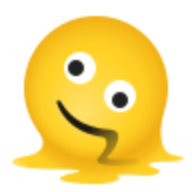
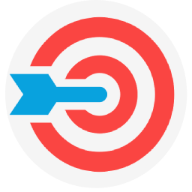
new branding

diff --git a/app/page.tsx b/app/page.tsx
@@ -20,14 +20,18 @@ export default function Home() {
   return (
     <main className="flex flex-col">
       <div className="flex flex-col items-center pt-8 sm:p-18">
-        <h1 className="text-6xl mb-4">Buzzkill.tips</h1>
-        <h3 className="text-lg mb-4 text-gray-600 text-center px-4">
+        <Image
+          src={"/logo.webp"}
+          className="mb-10"
+          width={450}
+          height={337}
+          alt="buzzkill.tips - just tell me"
+        />
+        <h3 className="text-lg mb-12 text-gray-600 text-center px-4">
           Tools and answers to your favorite New York Times games, updated
-          daily.
+          daily. <br />
+          <br /> Made out of playful spite.
         </h3>
-        <h4 className="text-md mb-12 text-gray-400 italic">
-          Just tell me <span className="not-italic ml-1">{""}🫠</span>
-        </h4>
         <div className="grid sm:grid-cols-2 lg:grid-cols-4 gap-6 justify-center">
           {games.map((game) => {
             return (
@@ -49,9 +53,6 @@ export default function Home() {
             );
           })}
         </div>
-      </div>
-      <div className="flex justify-center py-6 mt-12 text-gray-500">
-        <div>Made out of playful spite.</div>
       </div>
     </main>
   );

diff --git a/app/components/sidebar.tsx b/app/components/sidebar.tsx
@@ -70,7 +70,6 @@ export default function Sidebar() {
           isOpen ? "translate-x-0" : "-translate-x-full"
         } transition-transform duration-300 ease-in-out justify-between flex flex-col p-2`}
       >
-        {/* Content for your sidebar */}
         <nav>
           <Link
             href="/"
@@ -78,10 +77,14 @@ export default function Sidebar() {
             tabIndex={isOpen ? 0 : -1}
             onClick={() => setIsOpen(false)}
           >
-            Buzzkill.tips
+            <Image
+              src={"/sidebar-logo.png"}
+              width={150}
+              height={112}
+              alt="buzzkill.tips - just tell me"
+            />
           </Link>
           <div className="text-md pl-2 pt-2">Games</div>
-          {/* Links or content goes here */}
           {games.map((game) => {
             return (
               <SidebarLink

diff --git a/app/components/disclaimer.tsx b/app/components/disclaimer.tsx
@@ -1,6 +1,4 @@
 import Link from "next/link";
-import { usePathname } from "next/navigation";
-import { headers } from "next/headers";
 
 export default function Disclaimer() {
   let textColor = "text-slate-400";
@@ -19,11 +17,6 @@ export default function Disclaimer() {
         </span>{" "}
         Buzzkill.tips is an independent entity and is not affiliated with,
         endorsed by, or in any way officially connected to The New York Times.
-        Additional icons by{" "}
-        <Link href="https://icons8.com/" className="text-blue-600">
-          Icons8
-        </Link>
-        .
       </div>
     </footer>
   );
